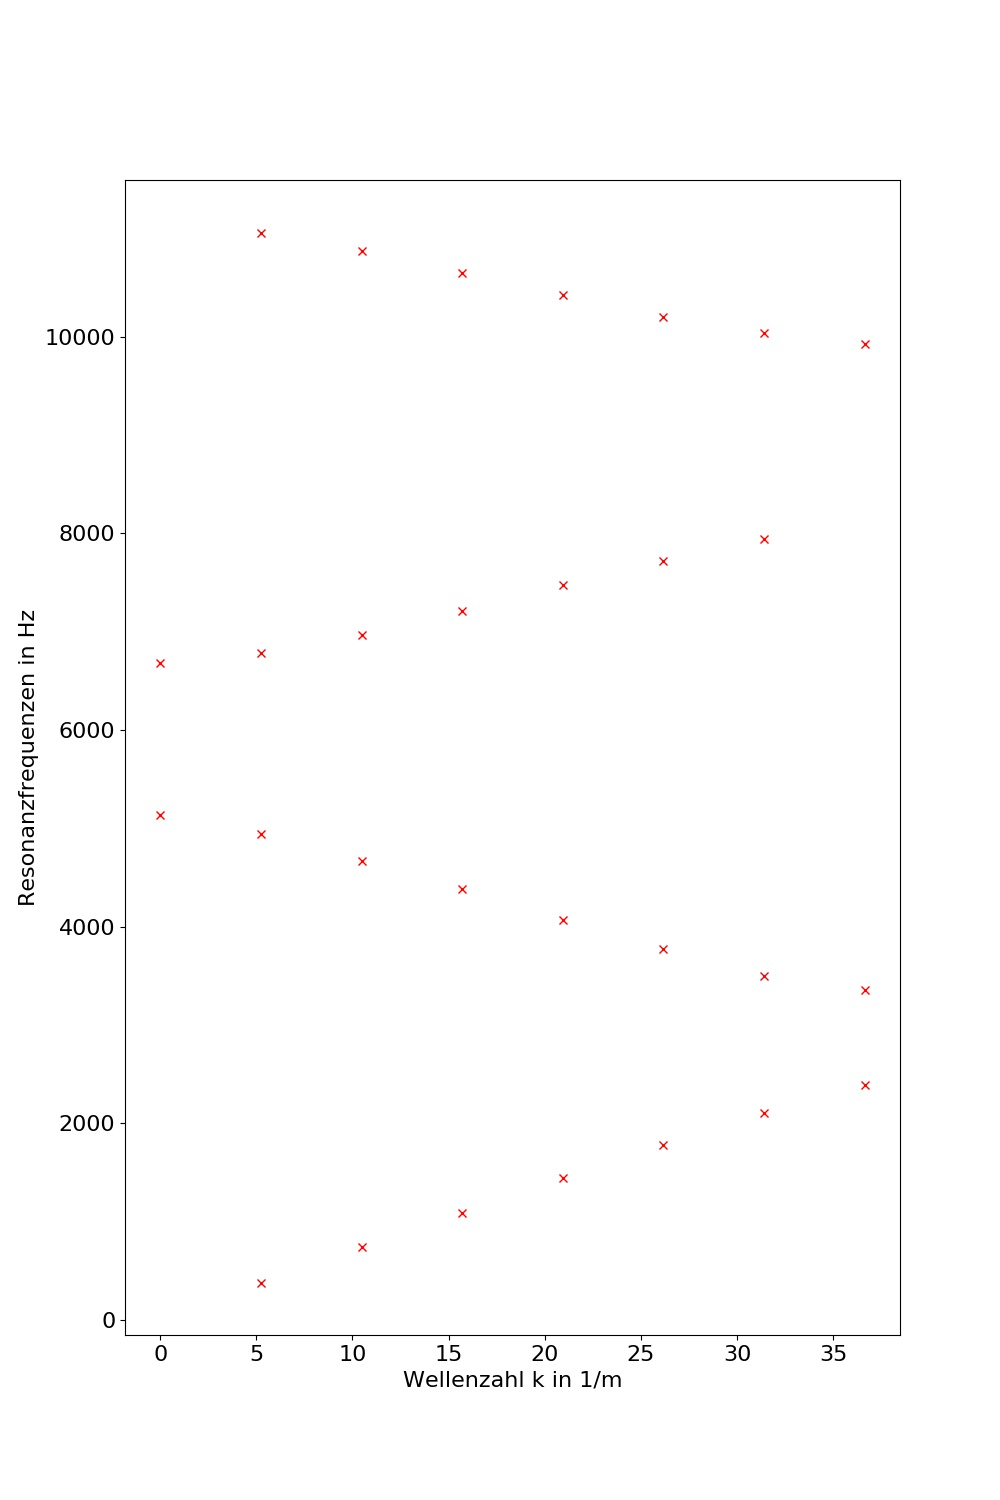
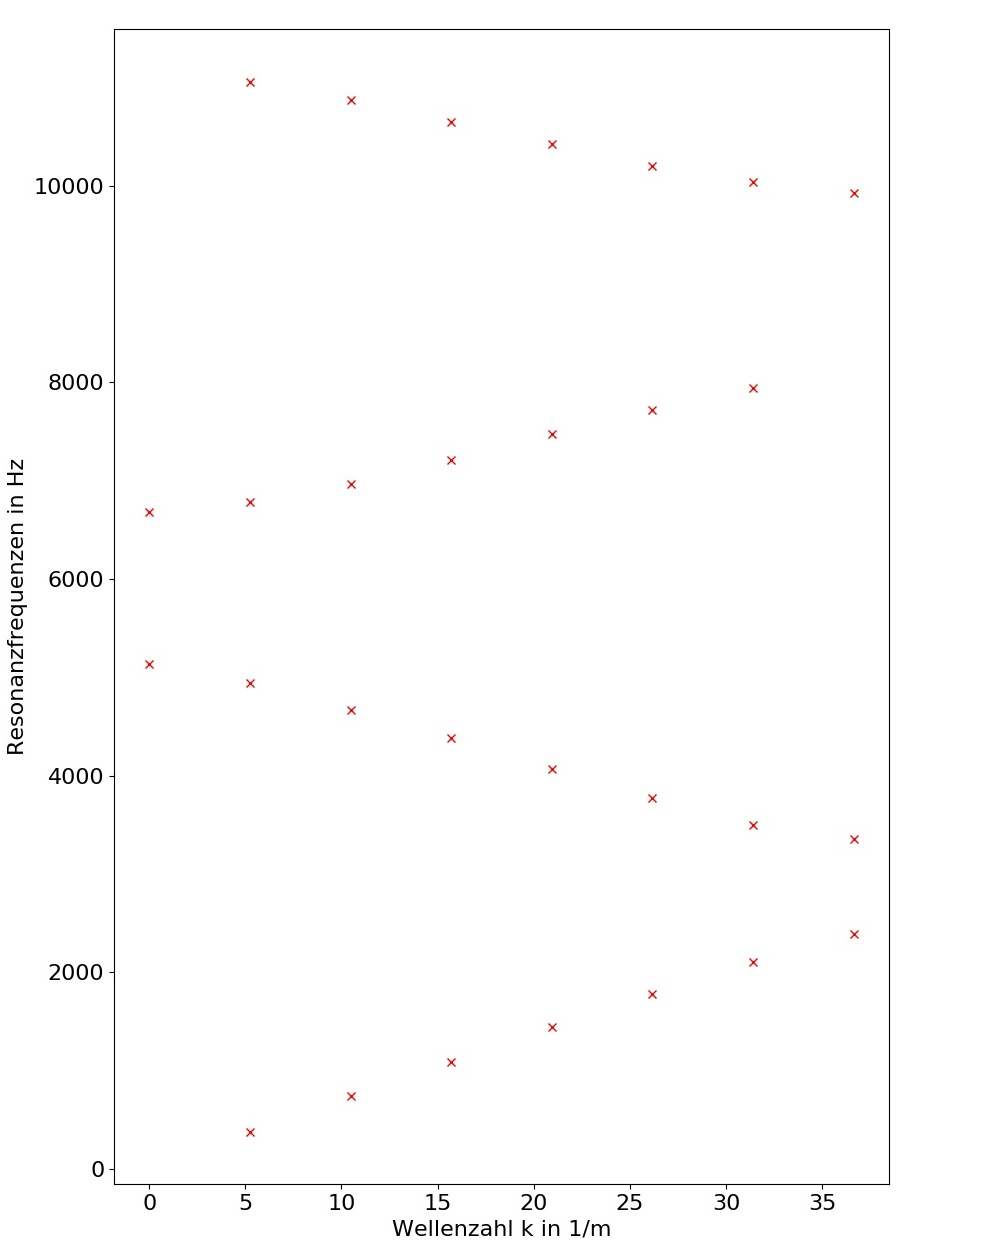
Plots

diff --git a/v23/content/Scripts/4_7_red.py b/v23/content/Scripts/4_7_red.py
@@ -1,0 +1,90 @@
+import numpy as np
+import math
+# fit arbitrary functions
+from scipy.optimize import curve_fit
+
+A=np.genfromtxt('4b_7_12x50.dat', unpack=True)
+X=[]
+print(len(A[0,:]))
+print(A[1,0])
+print(A[1,1])
+#Parameter um peaks zu pruefen, Anzahl der Werte die kleiner sind als A_1_i+5
+m=0
+
+#Filter Bauartbedingte Resonanzen der Soundkarte
+f_1=820
+f_2=2130
+f=800
+f_delta=20
+
+#minimale Peak hoehe
+f_abs=0.2
+f_abs_3000=0
+#abstand zwischen zwei peaks
+r=9
+
+#quotientenparameter
+q=1
+
+for i in range(len(A[1,:])-r+1):
+    for j in range(r):
+        if A[1,i+r/2-1] > q*A[1,i+j]:
+            m = m+1
+    #Ausnahmen   
+    if A[0,i+r/2]==3360:
+        X=X+[A[:,i+r/2-1]]
+    if A[0,i+r/2]==5170:
+       X=X+[A[:,i+r/2-1]]    
+    #if A[0,i+r/2]==10970:
+    #  X=X+[A[:,i+r/2-1]]   
+    #if A[0,i+r/2]==10040:
+    #   X=X+[A[:,i+r/2-1]]          
+    #regulaerer Ablauf
+    if A[0,i+r/2-1]<8500 and not A[0,i+r/2-1]==800 and not A[0,i+r/2-1]==2910 and not A[0,i+r/2-1]==280 :
+        if m>= r-1  and A[0,i+r/2-1]>f_1+f_delta and A[1,i+r/2-1]>f_abs:
+            X = X+[A[:,i+r/2-1]]
+        elif m>= r-1 and A[0,i+r/2-1]<f_1-f_delta and A[1,i+r/2-1]>f_abs:
+            X = X+[A[:,i+r/2-1]]      
+    m=0
+
+Y=np.column_stack(X)
+
+k=np.arange(0,len(Y[0,:])+10)
+
+k=k* math.pi /0.6
+#print('k',k[1:3])
+#k.itemset(3,111)
+#print('k ',k)
+#print(len(k))
+#print('type k ',type(k))
+#print('type Y ',type(Y))
+print('Y ',Y)
+#print('k.T ',k.T)
+#print('Y.T ',Y[0,:].T)
+
+
+
+
+# prepare plot
+
+import matplotlib.pyplot as plt
+plt.rcParams['figure.figsize'] = (10, 15)
+plt.rcParams['font.size'] = 16
+
+test=np.zeros(41)
+
+
+#plt.plot(k[1:len(Y[0,:])+1],Y[0,:],'bx')
+
+plt.plot(k[1:12],Y[0,0:11],'rx')
+plt.plot(k[0:12],Y[0,11:23][::-1],'rx')
+plt.plot(k[1:11],Y[0,23:33],'rx')
+
+plt.xlabel('Wellenzahl k in 1/m')
+plt.ylabel('Resonanzfrequenzen in Hz')
+plt.legend(loc="best")
+#plt.show()
+plt.savefig('4b_7_red.jpg')
+#np.savetxt('4_2_peaks.txt', np.column_stack(X).T,delimiter='&',fmt='%3d',newline='\ xx ')
+
+#print('c =', params[0]*2*math.pi, '+-', errors[0]*2*math.pi)
